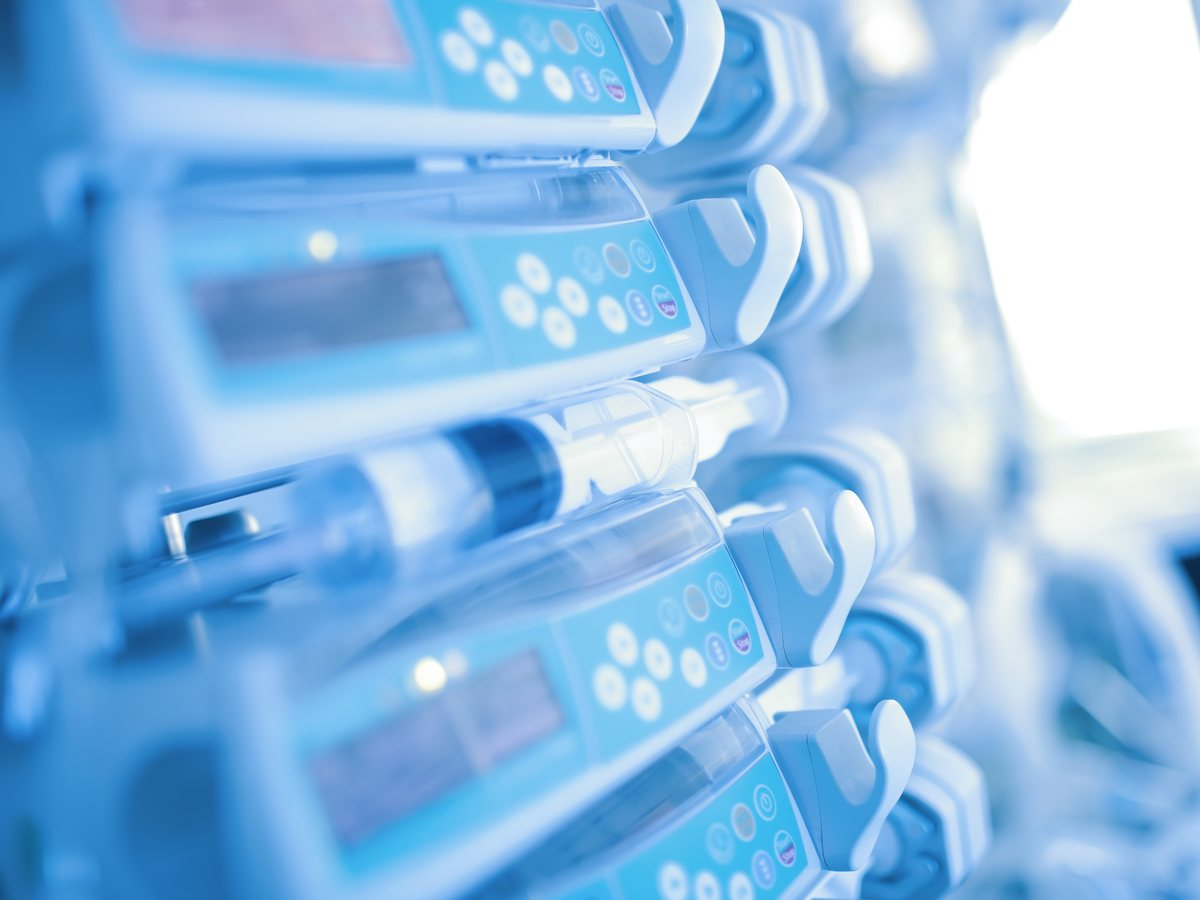
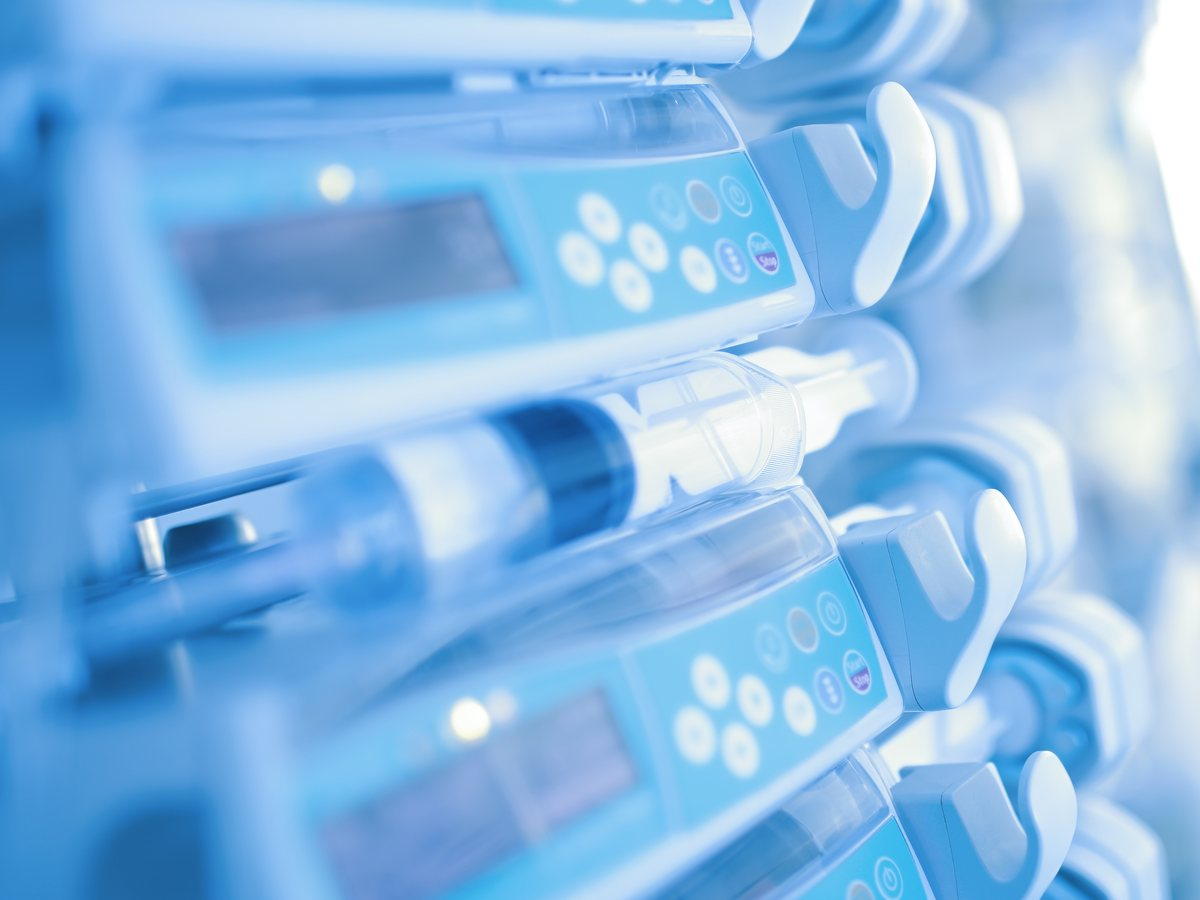
Version-stamp photo URLs so replaced images show immediately; tighter infusion-pump crop

diff --git a/what-we-do.html b/what-we-do.html
@@ -20,7 +20,7 @@
 <link rel="preconnect" href="https://fonts.gstatic.com" crossorigin>
 <link rel="stylesheet" href="https://fonts.googleapis.com/css2?family=Google+Sans:wght@400..700&display=swap">
 <link rel="preload" as="font" type="font/woff2" href="assets/fonts/GeistMono-Variable.woff2" crossorigin>
-<link rel="stylesheet" href="styles.css?v=1792423438">
+<link rel="stylesheet" href="styles.css?v=1792423571">
 <script>try{var g=JSON.parse(localStorage.getItem('so-gate')||'null');if(!(g&&g.t&&Date.now()-g.t<7*864e5))document.documentElement.classList.add('locked')}catch(e){document.documentElement.classList.add('locked')}</script>
 <script>document.documentElement.classList.add('js');if(location.hash==='#still')document.documentElement.classList.add('still');if(/Chrome\//.test(navigator.userAgent)&&!/Edg\/|OPR\//.test(navigator.userAgent)||/Edg\//.test(navigator.userAgent))document.documentElement.classList.add('lq')</script>
 </head>
@@ -104,7 +104,7 @@ else{msg.textContent='That password is not right.';gate.classList.remove('shake'
 
 <main id="main">
 <section class="phero grad hue-g has-img">
-  <div class="phero-img" aria-hidden="true"><img src="assets/img/hero-what-we-do.jpg" srcset="assets/img/hero-what-we-do-sm.jpg 1200w, assets/img/hero-what-we-do.jpg 2400w" sizes="100vw" alt="" fetchpriority="high" style="object-position:88% 50%"></div>
+  <div class="phero-img" aria-hidden="true"><img src="assets/img/hero-what-we-do.jpg?v=1792422998" srcset="assets/img/hero-what-we-do-sm.jpg?v=1792422998 1200w, assets/img/hero-what-we-do.jpg?v=1792422998 2400w" sizes="100vw" alt="" fetchpriority="high" style="object-position:88% 50%"></div>
   <svg class="art" viewBox="0 0 200 200" aria-hidden="true"><circle cx="80" cy="80" r="14"/><circle cx="80" cy="80" r="24"/><circle cx="80" cy="80" r="34"/><circle cx="80" cy="80" r="44"/><circle cx="80" cy="80" r="54"/><circle cx="80" cy="80" r="64"/><path d="M124.0 138.0 L183.0 197.0"/><path d="M131.0 131.0 L190.0 190.0"/><path d="M138.0 124.0 L197.0 183.0"/></svg>
   <div class="wrap phero-in">
     
@@ -139,7 +139,7 @@ else{msg.textContent='That password is not right.';gate.classList.remove('shake'
 
 <section class="wrap sec">
   <div class="ph flush"><div><p class="mono lab">[ 03 ] Focus areas</p><svg class="lg dots" viewBox="0 0 100 100" aria-hidden="true"><circle cx="50.00" cy="88.29" r="5.71" style="--d:10"/><circle cx="50.00" cy="53.91" r="5.71" style="--d:0"/><circle cx="50.00" cy="36.72" r="5.71" style="--d:1"/><circle cx="50.00" cy="71.10" r="5.71" style="--d:2"/><circle cx="50.00" cy="11.71" r="5.71" style="--d:9"/><circle cx="37.84" cy="23.87" r="5.71" style="--d:5"/><circle cx="25.69" cy="36.02" r="5.71" style="--d:3"/><circle cx="13.53" cy="48.18" r="5.71" style="--d:7"/><circle cx="74.31" cy="36.02" r="5.71" style="--d:4"/><circle cx="62.16" cy="23.87" r="5.71" style="--d:6"/><circle cx="86.47" cy="48.18" r="5.71" style="--d:8"/></svg><h2 class="fade-h">Three frontiers.</h2></div><div class="ph-r reveal"><p>We focus where breakthrough science can change the most lives, and where our team has built companies before.</p></div></div>
-  <div class="areas3 photo"><article class="area hue-p reveal"><div class="pic grad hue-p"><img src="assets/img/area-biotech.jpg" alt="A pipette releasing a drop into a row of test tubes" loading="lazy"></div><p class="area-meta"><span class="mono n">01</span><span class="mono role">Focus area</span></p><h3>Biotechnology</h3><p class="area-d">Revolutionary therapeutics and diagnostics that address critical unmet needs.</p></article><article class="area hue-o reveal"><div class="pic grad hue-o"><img src="assets/img/area-biodefense.jpg" alt="Vials being filled and capped on an automated production line" loading="lazy"></div><p class="area-meta"><span class="mono n">02</span><span class="mono role">Focus area</span></p><h3>Biodefense</h3><p class="area-d">Medical countermeasures that defend against natural outbreaks and deliberate attack.</p></article><article class="area hue-g reveal"><div class="pic grad hue-g"><img src="assets/img/area-devices.jpg" alt="A bank of infusion pumps delivering medication by syringe" loading="lazy"></div><p class="area-meta"><span class="mono n">03</span><span class="mono role">Focus area</span></p><h3>Medical devices</h3><p class="area-d">Breakthrough medical devices, surgical systems, and life-saving diagnostic equipment.</p></article></div>
+  <div class="areas3 photo"><article class="area hue-p reveal"><div class="pic grad hue-p"><img src="assets/img/area-biotech.jpg?v=1792422715" alt="A pipette releasing a drop into a row of test tubes" loading="lazy"></div><p class="area-meta"><span class="mono n">01</span><span class="mono role">Focus area</span></p><h3>Biotechnology</h3><p class="area-d">Revolutionary therapeutics and diagnostics that address critical unmet needs.</p></article><article class="area hue-o reveal"><div class="pic grad hue-o"><img src="assets/img/area-biodefense.jpg?v=1792422716" alt="Vials being filled and capped on an automated production line" loading="lazy"></div><p class="area-meta"><span class="mono n">02</span><span class="mono role">Focus area</span></p><h3>Biodefense</h3><p class="area-d">Medical countermeasures that defend against natural outbreaks and deliberate attack.</p></article><article class="area hue-g reveal"><div class="pic grad hue-g"><img src="assets/img/area-devices.jpg?v=1792423484" alt="A bank of infusion pumps delivering medication by syringe" loading="lazy"></div><p class="area-meta"><span class="mono n">03</span><span class="mono role">Focus area</span></p><h3>Medical devices</h3><p class="area-d">Breakthrough medical devices, surgical systems, and life-saving diagnostic equipment.</p></article></div>
 </section>
 
 <section class="wrap sec">
@@ -232,6 +232,6 @@ else{msg.textContent='That password is not right.';gate.classList.remove('shake'
   </div>
 </dialog>
 <script src="assets/vendor/lenis.min.js?v=1.1.20" defer></script>
-<script src="main.js?v=1792423438" defer></script>
+<script src="main.js?v=1792423571" defer></script>
 </body>
 </html>

diff --git a/portfolio.html b/portfolio.html
@@ -20,7 +20,7 @@
 <link rel="preconnect" href="https://fonts.gstatic.com" crossorigin>
 <link rel="stylesheet" href="https://fonts.googleapis.com/css2?family=Google+Sans:wght@400..700&display=swap">
 <link rel="preload" as="font" type="font/woff2" href="assets/fonts/GeistMono-Variable.woff2" crossorigin>
-<link rel="stylesheet" href="styles.css?v=1792423438">
+<link rel="stylesheet" href="styles.css?v=1792423571">
 <script>try{var g=JSON.parse(localStorage.getItem('so-gate')||'null');if(!(g&&g.t&&Date.now()-g.t<7*864e5))document.documentElement.classList.add('locked')}catch(e){document.documentElement.classList.add('locked')}</script>
 <script>document.documentElement.classList.add('js');if(location.hash==='#still')document.documentElement.classList.add('still');if(/Chrome\//.test(navigator.userAgent)&&!/Edg\/|OPR\//.test(navigator.userAgent)||/Edg\//.test(navigator.userAgent))document.documentElement.classList.add('lq')</script>
 </head>
@@ -104,7 +104,7 @@ else{msg.textContent='That password is not right.';gate.classList.remove('shake'
 
 <main id="main">
 <section class="phero grad hue-p has-img">
-  <div class="phero-img" aria-hidden="true"><img src="assets/img/hero-portfolio.jpg" srcset="assets/img/hero-portfolio-sm.jpg 1200w, assets/img/hero-portfolio.jpg 2400w" sizes="100vw" alt="" fetchpriority="high"></div>
+  <div class="phero-img" aria-hidden="true"><img src="assets/img/hero-portfolio.jpg?v=1792422998" srcset="assets/img/hero-portfolio-sm.jpg?v=1792422998 1200w, assets/img/hero-portfolio.jpg?v=1792422998 2400w" sizes="100vw" alt="" fetchpriority="high"></div>
   <svg class="art" viewBox="0 0 200 200" aria-hidden="true"><circle cx="100" cy="100" r="12"/><circle cx="100" cy="100" r="22"/><circle cx="100" cy="100" r="32"/><circle cx="100" cy="100" r="42"/><circle cx="100" cy="100" r="52"/><circle cx="100" cy="100" r="62"/><circle cx="100" cy="100" r="72"/><circle cx="100" cy="100" r="82"/><circle cx="100" cy="100" r="92"/></svg>
   <div class="wrap phero-in">
     
@@ -275,6 +275,6 @@ else{msg.textContent='That password is not right.';gate.classList.remove('shake'
   </div>
 </dialog>
 <script src="assets/vendor/lenis.min.js?v=1.1.20" defer></script>
-<script src="main.js?v=1792423438" defer></script>
+<script src="main.js?v=1792423571" defer></script>
 </body>
 </html>

diff --git a/team.html b/team.html
@@ -20,7 +20,7 @@
 <link rel="preconnect" href="https://fonts.gstatic.com" crossorigin>
 <link rel="stylesheet" href="https://fonts.googleapis.com/css2?family=Google+Sans:wght@400..700&display=swap">
 <link rel="preload" as="font" type="font/woff2" href="assets/fonts/GeistMono-Variable.woff2" crossorigin>
-<link rel="stylesheet" href="styles.css?v=1792423438">
+<link rel="stylesheet" href="styles.css?v=1792423571">
 <script>try{var g=JSON.parse(localStorage.getItem('so-gate')||'null');if(!(g&&g.t&&Date.now()-g.t<7*864e5))document.documentElement.classList.add('locked')}catch(e){document.documentElement.classList.add('locked')}</script>
 <script>document.documentElement.classList.add('js');if(location.hash==='#still')document.documentElement.classList.add('still');if(/Chrome\//.test(navigator.userAgent)&&!/Edg\/|OPR\//.test(navigator.userAgent)||/Edg\//.test(navigator.userAgent))document.documentElement.classList.add('lq')</script>
 </head>
@@ -104,7 +104,7 @@ else{msg.textContent='That password is not right.';gate.classList.remove('shake'
 
 <main id="main">
 <section class="phero grad hue-o has-img">
-  <div class="phero-img" aria-hidden="true"><img src="assets/img/hero-team.jpg" srcset="assets/img/hero-team-sm.jpg 1200w, assets/img/hero-team.jpg 2400w" sizes="100vw" alt="" fetchpriority="high"></div>
+  <div class="phero-img" aria-hidden="true"><img src="assets/img/hero-team.jpg?v=1792422998" srcset="assets/img/hero-team-sm.jpg?v=1792422998 1200w, assets/img/hero-team.jpg?v=1792422998 2400w" sizes="100vw" alt="" fetchpriority="high"></div>
   <svg class="art" viewBox="0 0 200 200" aria-hidden="true"><circle cx="100.0" cy="52.0" r="46"/><circle cx="100.0" cy="52.0" r="34"/><circle cx="145.0" cy="130.0" r="46"/><circle cx="145.0" cy="130.0" r="34"/><circle cx="55.0" cy="130.0" r="46"/><circle cx="55.0" cy="130.0" r="34"/></svg>
   <div class="wrap phero-in">
     
@@ -233,6 +233,6 @@ else{msg.textContent='That password is not right.';gate.classList.remove('shake'
   </div>
 </dialog>
 <script src="assets/vendor/lenis.min.js?v=1.1.20" defer></script>
-<script src="main.js?v=1792423438" defer></script>
+<script src="main.js?v=1792423571" defer></script>
 </body>
 </html>

diff --git a/case-studies/aerin.html b/case-studies/aerin.html
@@ -20,7 +20,7 @@
 <link rel="preconnect" href="https://fonts.gstatic.com" crossorigin>
 <link rel="stylesheet" href="https://fonts.googleapis.com/css2?family=Google+Sans:wght@400..700&display=swap">
 <link rel="preload" as="font" type="font/woff2" href="../assets/fonts/GeistMono-Variable.woff2" crossorigin>
-<link rel="stylesheet" href="../styles.css?v=1792423438">
+<link rel="stylesheet" href="../styles.css?v=1792423571">
 <script>try{var g=JSON.parse(localStorage.getItem('so-gate')||'null');if(!(g&&g.t&&Date.now()-g.t<7*864e5))document.documentElement.classList.add('locked')}catch(e){document.documentElement.classList.add('locked')}</script>
 <script>document.documentElement.classList.add('js');if(location.hash==='#still')document.documentElement.classList.add('still');if(/Chrome\//.test(navigator.userAgent)&&!/Edg\/|OPR\//.test(navigator.userAgent)||/Edg\//.test(navigator.userAgent))document.documentElement.classList.add('lq')</script>
 </head>
@@ -199,6 +199,6 @@ else{msg.textContent='That password is not right.';gate.classList.remove('shake'
   </div>
 </dialog>
 <script src="../assets/vendor/lenis.min.js?v=1.1.20" defer></script>
-<script src="../main.js?v=1792423438" defer></script>
+<script src="../main.js?v=1792423571" defer></script>
 </body>
 </html>

diff --git a/case-studies/elusys.html b/case-studies/elusys.html
@@ -20,7 +20,7 @@
 <link rel="preconnect" href="https://fonts.gstatic.com" crossorigin>
 <link rel="stylesheet" href="https://fonts.googleapis.com/css2?family=Google+Sans:wght@400..700&display=swap">
 <link rel="preload" as="font" type="font/woff2" href="../assets/fonts/GeistMono-Variable.woff2" crossorigin>
-<link rel="stylesheet" href="../styles.css?v=1792423438">
+<link rel="stylesheet" href="../styles.css?v=1792423571">
 <script>try{var g=JSON.parse(localStorage.getItem('so-gate')||'null');if(!(g&&g.t&&Date.now()-g.t<7*864e5))document.documentElement.classList.add('locked')}catch(e){document.documentElement.classList.add('locked')}</script>
 <script>document.documentElement.classList.add('js');if(location.hash==='#still')document.documentElement.classList.add('still');if(/Chrome\//.test(navigator.userAgent)&&!/Edg\/|OPR\//.test(navigator.userAgent)||/Edg\//.test(navigator.userAgent))document.documentElement.classList.add('lq')</script>
 </head>
@@ -199,6 +199,6 @@ else{msg.textContent='That password is not right.';gate.classList.remove('shake'
   </div>
 </dialog>
 <script src="../assets/vendor/lenis.min.js?v=1.1.20" defer></script>
-<script src="../main.js?v=1792423438" defer></script>
+<script src="../main.js?v=1792423571" defer></script>
 </body>
 </html>

diff --git a/case-studies/zeltiq.html b/case-studies/zeltiq.html
@@ -20,7 +20,7 @@
 <link rel="preconnect" href="https://fonts.gstatic.com" crossorigin>
 <link rel="stylesheet" href="https://fonts.googleapis.com/css2?family=Google+Sans:wght@400..700&display=swap">
 <link rel="preload" as="font" type="font/woff2" href="../assets/fonts/GeistMono-Variable.woff2" crossorigin>
-<link rel="stylesheet" href="../styles.css?v=1792423438">
+<link rel="stylesheet" href="../styles.css?v=1792423571">
 <script>try{var g=JSON.parse(localStorage.getItem('so-gate')||'null');if(!(g&&g.t&&Date.now()-g.t<7*864e5))document.documentElement.classList.add('locked')}catch(e){document.documentElement.classList.add('locked')}</script>
 <script>document.documentElement.classList.add('js');if(location.hash==='#still')document.documentElement.classList.add('still');if(/Chrome\//.test(navigator.userAgent)&&!/Edg\/|OPR\//.test(navigator.userAgent)||/Edg\//.test(navigator.userAgent))document.documentElement.classList.add('lq')</script>
 </head>
@@ -199,6 +199,6 @@ else{msg.textContent='That password is not right.';gate.classList.remove('shake'
   </div>
 </dialog>
 <script src="../assets/vendor/lenis.min.js?v=1.1.20" defer></script>
-<script src="../main.js?v=1792423438" defer></script>
+<script src="../main.js?v=1792423571" defer></script>
 </body>
 </html>

diff --git a/index.html b/index.html
@@ -29,7 +29,7 @@
 <link rel="stylesheet" href="https://fonts.googleapis.com/css2?family=Google+Sans:wght@400..700&display=swap">
 <link rel="preload" as="font" type="font/woff2" href="assets/fonts/GeistMono-Variable.woff2" crossorigin>
 <link rel="preload" as="image" href="assets/video/hero-poster.jpg?v=1790674381">
-<link rel="stylesheet" href="styles.css?v=1792423438">
+<link rel="stylesheet" href="styles.css?v=1792423571">
 <script>try{var g=JSON.parse(localStorage.getItem('so-gate')||'null');if(!(g&&g.t&&Date.now()-g.t<7*864e5))document.documentElement.classList.add('locked')}catch(e){document.documentElement.classList.add('locked')}</script>
 <script>document.documentElement.classList.add('js');if(location.hash==='#still')document.documentElement.classList.add('still');if(/Chrome\//.test(navigator.userAgent)&&!/Edg\/|OPR\//.test(navigator.userAgent)||/Edg\//.test(navigator.userAgent))document.documentElement.classList.add('lq')</script>
 </head>
@@ -323,6 +323,6 @@ else{msg.textContent='That password is not right.';gate.classList.remove('shake'
 </dialog>
 
 <script src="assets/vendor/lenis.min.js?v=1.1.20" defer></script>
-<script src="main.js?v=1792423438" defer></script>
+<script src="main.js?v=1792423571" defer></script>
 </body>
 </html>

diff --git a/privacy.html b/privacy.html
@@ -20,7 +20,7 @@
 <link rel="preconnect" href="https://fonts.gstatic.com" crossorigin>
 <link rel="stylesheet" href="https://fonts.googleapis.com/css2?family=Google+Sans:wght@400..700&display=swap">
 <link rel="preload" as="font" type="font/woff2" href="assets/fonts/GeistMono-Variable.woff2" crossorigin>
-<link rel="stylesheet" href="styles.css?v=1792423438">
+<link rel="stylesheet" href="styles.css?v=1792423571">
 <script>try{var g=JSON.parse(localStorage.getItem('so-gate')||'null');if(!(g&&g.t&&Date.now()-g.t<7*864e5))document.documentElement.classList.add('locked')}catch(e){document.documentElement.classList.add('locked')}</script>
 <script>document.documentElement.classList.add('js');if(location.hash==='#still')document.documentElement.classList.add('still');if(/Chrome\//.test(navigator.userAgent)&&!/Edg\/|OPR\//.test(navigator.userAgent)||/Edg\//.test(navigator.userAgent))document.documentElement.classList.add('lq')</script>
 </head>
@@ -167,6 +167,6 @@ else{msg.textContent='That password is not right.';gate.classList.remove('shake'
   </div>
 </dialog>
 <script src="assets/vendor/lenis.min.js?v=1.1.20" defer></script>
-<script src="main.js?v=1792423438" defer></script>
+<script src="main.js?v=1792423571" defer></script>
 </body>
 </html>

diff --git a/terms.html b/terms.html
@@ -20,7 +20,7 @@
 <link rel="preconnect" href="https://fonts.gstatic.com" crossorigin>
 <link rel="stylesheet" href="https://fonts.googleapis.com/css2?family=Google+Sans:wght@400..700&display=swap">
 <link rel="preload" as="font" type="font/woff2" href="assets/fonts/GeistMono-Variable.woff2" crossorigin>
-<link rel="stylesheet" href="styles.css?v=1792423438">
+<link rel="stylesheet" href="styles.css?v=1792423571">
 <script>try{var g=JSON.parse(localStorage.getItem('so-gate')||'null');if(!(g&&g.t&&Date.now()-g.t<7*864e5))document.documentElement.classList.add('locked')}catch(e){document.documentElement.classList.add('locked')}</script>
 <script>document.documentElement.classList.add('js');if(location.hash==='#still')document.documentElement.classList.add('still');if(/Chrome\//.test(navigator.userAgent)&&!/Edg\/|OPR\//.test(navigator.userAgent)||/Edg\//.test(navigator.userAgent))document.documentElement.classList.add('lq')</script>
 </head>
@@ -167,6 +167,6 @@ else{msg.textContent='That password is not right.';gate.classList.remove('shake'
   </div>
 </dialog>
 <script src="assets/vendor/lenis.min.js?v=1.1.20" defer></script>
-<script src="main.js?v=1792423438" defer></script>
+<script src="main.js?v=1792423571" defer></script>
 </body>
 </html>

diff --git a/contact.html b/contact.html
@@ -20,7 +20,7 @@
 <link rel="preconnect" href="https://fonts.gstatic.com" crossorigin>
 <link rel="stylesheet" href="https://fonts.googleapis.com/css2?family=Google+Sans:wght@400..700&display=swap">
 <link rel="preload" as="font" type="font/woff2" href="assets/fonts/GeistMono-Variable.woff2" crossorigin>
-<link rel="stylesheet" href="styles.css?v=1792423438">
+<link rel="stylesheet" href="styles.css?v=1792423571">
 <script>try{var g=JSON.parse(localStorage.getItem('so-gate')||'null');if(!(g&&g.t&&Date.now()-g.t<7*864e5))document.documentElement.classList.add('locked')}catch(e){document.documentElement.classList.add('locked')}</script>
 <script>document.documentElement.classList.add('js');if(location.hash==='#still')document.documentElement.classList.add('still');if(/Chrome\//.test(navigator.userAgent)&&!/Edg\/|OPR\//.test(navigator.userAgent)||/Edg\//.test(navigator.userAgent))document.documentElement.classList.add('lq')</script>
 </head>
@@ -165,6 +165,6 @@ else{msg.textContent='That password is not right.';gate.classList.remove('shake'
 
 
 <script src="assets/vendor/lenis.min.js?v=1.1.20" defer></script>
-<script src="main.js?v=1792423438" defer></script>
+<script src="main.js?v=1792423571" defer></script>
 </body>
 </html>
